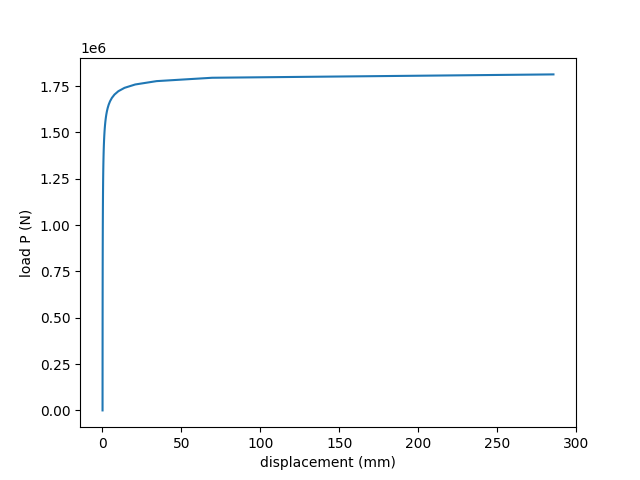
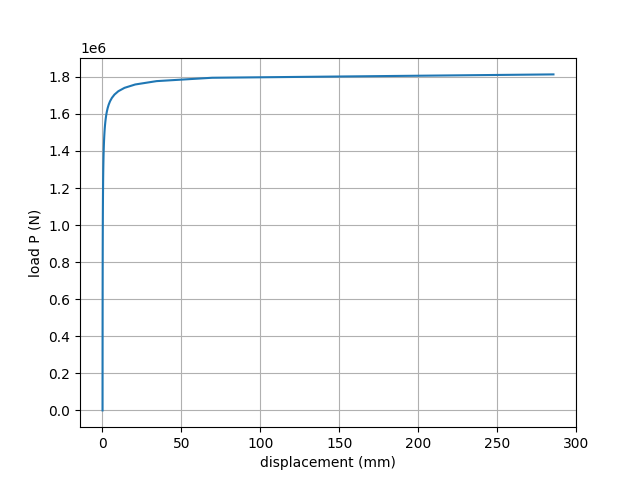
modified plot grid

diff --git a/stableX/visualization/visualizer.py b/stableX/visualization/visualizer.py
@@ -1,4 +1,5 @@
 # import matplotlib.pyplot as plt
+import numpy as np
 from mpl_toolkits.axisartist import Subplot
 
 from stableX import Structure
@@ -34,5 +35,6 @@ def plot(array_1, array_2, array_1_label, array_2_label):
     axs.plot(array_1, array_2)
     plt.xlabel(array_1_label)
     plt.ylabel(array_2_label)
+    plt.grid()
     plt.show()
 
